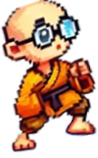
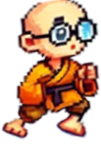
moving

diff --git a/apilagescript.js b/apilagescript.js
@@ -1,43 +1,71 @@
+var isJumping = false;
+var isRunning = false;
+var gameCharacter = document.getElementById("apilagesadu")
+
 function controller(event) {
+
     if (event.key == "Enter") {
-        if (runWorkerNumber == 0) {
-            run();
-        }
+        run();
+        document.getElementById("audio").play()
     }
 
 
     if (event.key == " ") {
-        if (jumpImageNumber == 0) {
-            if (runWorkerNumber != 0) {
-                clearInterval(runWorkerNumber);
-                jump();
-            }
-        }
+        jump();
     }
-
 }
-
-var runImageNumber = 1;
-var runWorkerNumber = 0;
-// var runSound = new Audio("run.mp3")
-// runSound.loop = true;
 
 
 
 
 function run() {
+    if (isRunning) return;
+
+    let runImageNumber = 1;
+
+    setInterval(() => {
+        // if (isJumping) return;
+
+        runImageNumber = runImageNumber + 1;
+
+        if (runImageNumber == 6) {
+            runImageNumber = 1;
+        }
+
+        document.getElementById("apilagesadu").src = "run" + runImageNumber + ".png";
+
+        moveBackground();
+        moveBoxes();
+    }, 150);
 }
 
-runWorkerNumber = setInterval(() => {
 
 
-    runImageNumber = runImageNumber + 1;
+var jumpImageNumber = 1;
+function jump() {
+    isJumping = true;
+    let jumpInterval = 0;
+    jumpInterval = setInterval(() => {
 
-    if (runImageNumber == 6) {
-        runImageNumber = 1;
+        jumpImageNumber = jumpImageNumber + 1;
 
-    }
-    document.getElementById("apilagesadu").src = "run" + runImageNumber + ".png";
+        gameCharacterMarginTop = parseInt(window.getComputedStyle(gameCharacter, null).marginTop);
 
-}, 150);
-          
+        //increase image margin top and decrease it to make it look like jumping
+        const steps = 70;
+        if (jumpImageNumber > 1 && jumpImageNumber <= 4) {
+            gameCharacter.style.marginTop = parseInt(gameCharacterMarginTop - steps) + "px";
+        } else {
+            gameCharacter.style.marginTop = parseInt(gameCharacterMarginTop + steps) + "px";
+        }
+        
+
+        if (jumpImageNumber == 7) {
+            jumpImageNumber = 1;
+            clearInterval(jumpInterval);
+            isJumping = false;
+        }
+
+        gameCharacter.src = "jump" + jumpImageNumber + ".png";
+    }, 150);
+}

diff --git a/ApilageGame.html b/ApilageGame.html
@@ -1,26 +1,50 @@
 <!DOCTYPE html>
 <html>
-    <head><title>ApilageGame</title>
-    <link rel="website icon" type="icon"
-    href="icon.png">
+
+<head>
+    <title>ApilageGame</title>
+    <link rel="website icon" type="icon" href="icon.png">
 
     <link rel="stylesheet" href="style.css" />
-    </head>
+</head>
 
-    <body class="background" id="background" onkeyup="controller(event);">
+<body class="background" id="background" onkeyup="controller(event);">
+    <audio controls id="audio" style="display: none;" loop>
+        <source src="background.mp3">
+    </audio>
+<!-- jump -->
+    <!-- <audio controls id="jump" style="display: none;" loop>
+        <source src="jump_sdf.mp3">
+    </audio> -->
+
+    <!-- run -->
+    <!-- <audio controls id="run" style="display: none;" loop>
+        <source src="run.mp3">
+    </audio> -->
+
+     <!-- apilagesadu -->
+    <!-- <audio controls id="run" style="display: none;" loop>
+        <source src="run.mp3">
+    </audio> -->
+    
 
 
 
-        <div class="score" id="score">0</div>
 
-        
-        <div class="image-container">
-            <img src="gameicon.png" class="gameicon" id="gameicon" alt="Game Icon" />
-          </div>
+    <div class="score" id="score">0</div>
 
-        <img src="run1.png" class="apilagesadu" id="apilagesadu"/>
-        <script src="apilagescript.js"></script>
-    </body>
+
+    <div class="image-container">
+        <img src="gameicon.png" class="gameicon" id="gameicon" alt="Game Icon">
+    </div>
+
+    <img class="trap" src="traps.png" alt="trap">
+    <img src="run1.png" alt="apilagesadu" class="apilagesadu" id="apilagesadu" />
+    
+    
+    <script src="actions.js"></script>
+    <script src="apilagescript.js"></script>
+</body>
 
 
 </html>

diff --git a/actions.js b/actions.js
@@ -1,0 +1,26 @@
+function moveBackground() {
+    let background = document.getElementsByTagName('body')[0];
+    var
+        _tmp = window.getComputedStyle(background, null).backgroundPosition.trim().split(/\s+/),
+        positions = {
+            'left': _tmp[0],
+            'top': _tmp[1]
+        };
+
+    // increase the background position
+    positions.left = parseInt(positions.left) - 10;
+    background.style.backgroundPosition = positions.left + "px " + positions.top;
+}
+
+function moveBoxes() {
+    let boxes = document.getElementsByClassName('trap');
+    for (let i = 0; i < boxes.length; i++) {
+        let box = boxes[i];
+        let left = parseInt(window.getComputedStyle(box, null).left);
+        if (left < -100) {
+            box.style.left = "100%";
+        } else {
+            box.style.left = left - 10 + "px";
+        }
+    }
+}

diff --git a/style.css b/style.css
@@ -1,6 +1,10 @@
 .background {
+    background-repeat: repeat-x;
     background-image: url("background.png");
-    background-size: 100%;
+    /* width: 100%; */
+    height: 100vh;
+    background-position-x: 0px;
+    /* background-size: 100% 100%; */
 }
 
 
@@ -17,18 +21,24 @@
     height: 250px;
     margin-top: 400px;
     position: absolute;
-    
 }
 
-  
+
 .image-container {
     align-items: center;
     display: flex;
     justify-content: center;
     height: 30vh;
 }
-  
-  .gameicon {
-    width: 200px; 
-    height: 200px; 
-  }
+
+.gameicon {
+    width: 200px;
+    height: 200px;
+}
+
+.trap{
+    right: 0;
+    height: 150px;
+    margin-top: 520px;
+    position: absolute;
+}
